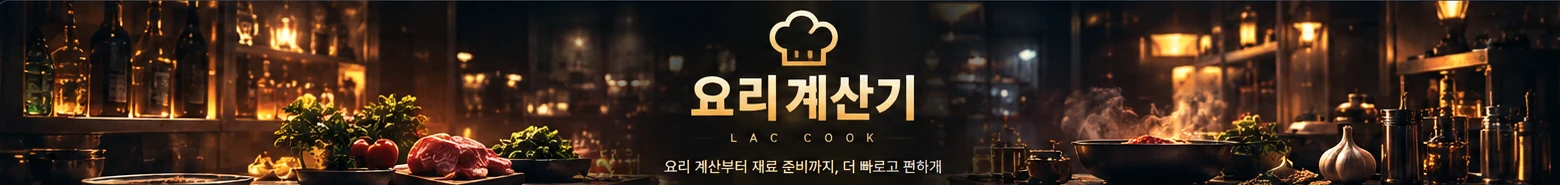
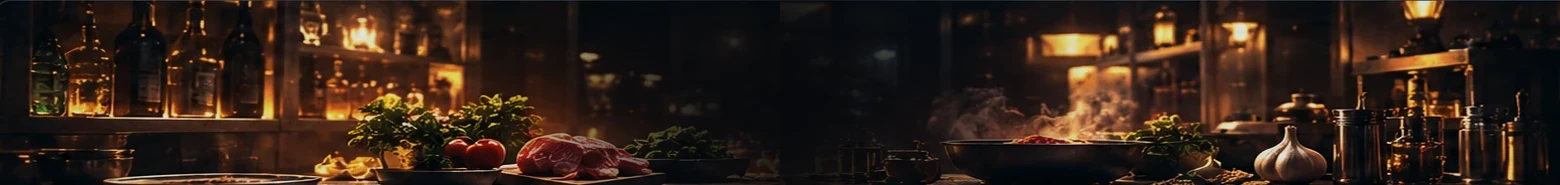
1

diff --git a/hub/src/companyCookEntry.js b/hub/src/companyCookEntry.js
@@ -23,7 +23,7 @@ styles.textContent = `
   /* The background belongs to the stage, not an oversized iframe. */
   .cc-layout {
     min-height:100dvh;display:flex;flex-direction:column;align-items:center;
-    padding:clamp(10px,1.7vh,18px) 16px 28px;
+    padding:0 0 28px;
     background:
       radial-gradient(ellipse 42% 34% at 50% 76%,rgba(195,141,73,.09),transparent 78%),
       radial-gradient(ellipse 36% 45% at 90% 56%,rgba(61,94,112,.10),transparent 80%),
@@ -33,14 +33,51 @@ styles.textContent = `
   }
   /* A full workbench, like the previous cooking app: content fills the stage. */
   .cc-panel {
-    flex:none;width:min(1460px,100%);margin:0 auto;overflow:hidden;
+    flex:none;width:min(1460px,calc(100% - 32px));margin:12px auto 0;overflow:hidden;
     background:#101519;border:1px solid rgba(192,146,79,.28);border-radius:15px;
     box-shadow:0 20px 65px #0009,0 0 0 1px #ffffff04;
   }
   .cc-header {
-    min-height:37px;display:flex;align-items:center;justify-content:flex-end;gap:8px;
-    padding:4px 13px;border-bottom:1px solid #2d353b;background:#12181d;
+    width:100%;min-height:68px;display:grid;grid-template-columns:minmax(160px,1fr) auto minmax(160px,1fr);
+    align-items:center;gap:12px;padding:9px max(18px,calc((100vw - 1460px)/2));
+    background:linear-gradient(180deg,#0f141a,#0b1015);border-bottom:1px solid #27313a;
   }
+  .cc-header-title{display:flex;gap:12px;align-items:center;min-width:0}
+  .cc-header-title b{font-size:19px;color:#f1f3f5;white-space:nowrap}
+  .cc-header-icon{width:35px;height:35px;flex:none;display:grid;place-items:center;background:#dba956;
+    border-radius:9px;color:#181715;font-size:19px;font-weight:900;box-shadow:0 0 22px #b879302a}
+  .cc-nav{display:flex;justify-content:center;align-items:center;gap:5px;border:1px solid #303842;
+    border-radius:999px;padding:4px;background:#14191f;min-width:0}
+  .cc-nav-button{border:0;border-radius:999px;background:transparent;color:#aebbc9;font-size:12px;font-weight:800;
+    padding:9px 15px;cursor:pointer;white-space:nowrap}
+  .cc-nav-button:hover{background:#252e38;color:#fff}
+  .cc-nav-button[aria-current="page"]{background:#e9b452;color:#151617}
+  .cc-nav-button:focus-visible{outline:2px solid #ecc37c;outline-offset:2px}
+  .cc-view{padding:25px;min-height:450px;color:#dce5ed}
+  .cc-view[hidden],.cc-frame[hidden]{display:none!important}
+  .cc-view-head{display:flex;align-items:center;justify-content:space-between;gap:14px;flex-wrap:wrap;margin-bottom:18px}
+  .cc-view h2{font-size:19px;margin:0;color:#fff}
+  .cc-view p{font-size:12px;line-height:1.7;color:#a9b8c6}
+  .cc-view-card{background:#151c23;border:1px solid #34404b;border-radius:13px;padding:19px;margin:0 0 12px}
+  .cc-view-card h3{font-size:15px;margin:0 0 10px;color:#f2eee5}
+  .cc-view-filters{display:flex;gap:9px;flex-wrap:wrap;margin:14px 0}
+  .cc-view-filters input,.cc-view-filters select{padding:9px 11px;border-radius:8px;border:1px solid #465362;
+    background:#0d141b;color:#eef2f5;font:inherit;font-size:12px}
+  .cc-view-filters input{flex:1 1 240px}
+  .cc-data-list{display:grid;grid-template-columns:repeat(2,minmax(0,1fr));gap:9px;max-height:490px;overflow:auto}
+  .cc-data-item{border:1px solid #34404b;border-radius:9px;padding:12px;background:#10161c}
+  .cc-data-item strong{display:block;font-size:12px;color:#f1e5d2}
+  .cc-data-item small{display:block;font-size:10px;color:#92a4b4;margin-top:5px;line-height:1.6}
+  .cc-link{display:inline-flex;align-items:center;text-decoration:none;padding:9px 13px;border-radius:9px;
+    border:1px solid #af8a51;background:#302515;color:#f3d09a;font-size:12px;font-weight:800}
+  .cc-link:hover{background:#48341b}
+  .cc-hero-text{height:100%;display:flex;flex-direction:column;align-items:center;justify-content:center;
+    text-align:center;color:#f6d89a;text-shadow:0 2px 12px #020304,0 2px 4px #020304;padding:8px 15px}
+  .cc-hero-mark{font-size:31px;line-height:1;margin-bottom:1px;font-weight:900}
+  .cc-hero-text strong{font-size:clamp(25px,3.2vw,43px);font-weight:900;letter-spacing:-.045em;line-height:1.18}
+  .cc-hero-text em{font-style:normal;font-size:11px;font-weight:800;letter-spacing:.5em;margin:3px 0 7px}
+  .cc-hero-text small{font-size:12px;font-weight:750;color:#f6e5ca}
+
   /* Decorative brand-neutral kitchen hero inside the unified calculator card. */
   .cc-hero {
     height:clamp(160px,12.2vw,205px);
@@ -55,7 +92,7 @@ styles.textContent = `
     border-radius:7px;background:#2e261a;color:#ffce80;font-size:12px;font-weight:900}
   .cc-brand strong {display:block;font-size:13px;line-height:1.1;letter-spacing:.01em}
   .cc-brand small {display:block;margin-top:2px;color:#8e9eab;font-size:9px}
-  .cc-actions {display:flex;align-items:center;gap:6px;flex-shrink:0}
+  .cc-actions {display:flex;align-items:center;justify-content:flex-end;gap:6px;flex-shrink:0}
   .cc-button {min-height:29px;padding:5px 10px;border-radius:7px;border:1px solid #45515d;
     background:#1d252e;color:#e6edf3;font-size:11px;font-weight:750;cursor:pointer}
   .cc-button:hover {background:#273340}
@@ -75,23 +112,27 @@ styles.textContent = `
   .cc-dialog p,.cc-dialog li {font-size:12px;line-height:1.8;color:#c0ccd7}
   .cc-dialog ol {padding-left:21px}
   .cc-dialog button {float:right;margin-top:10px}
-  /* Keep the browser's native controls clear when a desktop PWA uses overlays. */
-  @media(display-mode:window-controls-overlay) {
-    .cc-layout {padding-top:max(34px,calc(env(titlebar-area-height,0px) + 8px))}
-    .cc-header,.cc-actions,.cc-button{-webkit-app-region:no-drag}
-  }
+  /* Desktop PWA: controls remain within the page, never under OS buttons. */
   /* Keep the hero when possible; narrow/tiny windows favour actual controls. */
   @media(max-height:680px) and (min-width:751px){
     .cc-hero{height:112px}
   }
   @media(max-height:500px){.cc-hero{display:none}}
-  @media(max-width:720px){.cc-hero{display:none}}
+  @media(max-width:720px){.cc-hero{height:114px}.cc-hero-text strong{font-size:25px}.cc-hero-text small{font-size:10px}}
+  @media(max-width:970px){
+    .cc-header{grid-template-columns:1fr auto;gap:7px;padding:10px 14px}
+    .cc-nav{grid-column:1/-1;grid-row:2;justify-self:center}
+    .cc-actions{grid-column:2;grid-row:1}
+  }
   @media(max-width:620px){
-    .cc-layout{padding:9px}
-    .cc-panel{border-radius:11px}
-    .cc-header{padding:6px 9px}
-    .cc-brand small{display:none}
+    .cc-panel{width:calc(100% - 16px);border-radius:11px}
+    .cc-header{padding:9px}
+    .cc-header-title b{font-size:15px}
+    .cc-header-icon{width:28px;height:28px;font-size:14px}
+    .cc-nav-button{padding:8px 10px;font-size:11px}
     .cc-button{padding:5px 8px}
+    .cc-data-list{grid-template-columns:1fr}
+    .cc-view{padding:13px;min-height:330px}
   }
 
 `;
@@ -103,6 +144,13 @@ let statusInFlight = false;
 let pendingInstallEvent = null;
 let frameResizeObserver = null;
 let frameResizeCleanup = null;
+let currentView = 'home';
+let dataLoaded = false;
+let dataLoadInFlight = false;
+let dataCache = [];
+let dataError = '';
+let viewHost = null;
+let navButtons = null;
 
 function resetView(){
   frameResizeObserver?.disconnect();
@@ -110,6 +158,9 @@ function resetView(){
   frameResizeCleanup?.();
   frameResizeCleanup = null;
   frame = null;
+  viewHost = null;
+  navButtons = null;
+  currentView = 'home';
   app.replaceChildren();
 }
 function showStatus(title, detail, retry = false){
@@ -188,27 +239,146 @@ async function handleInstall(){
 function createAppShell(){
   const layout = document.createElement('main');layout.className = 'cc-layout';
   const header = document.createElement('header');header.className = 'cc-header';
-  const actions = document.createElement('div');actions.className = 'cc-actions';
-  const install = document.createElement('button');
-  install.id = 'cc-install'; install.type = 'button';
-  install.className = 'cc-button cc-button--primary';install.textContent = '앱 설치';
-  install.addEventListener('click',() => void handleInstall());
-  const refresh = document.createElement('button');
-  refresh.type = 'button';refresh.className = 'cc-button';refresh.textContent = '새로고침';
-  refresh.addEventListener('click',() => window.location.reload());
-  actions.append(install,refresh);header.append(actions);
-  const panel = document.createElement('section');
-  panel.className = 'cc-panel';
+  const identity = document.createElement('div');identity.className='cc-header-title';
+  const logo=document.createElement('span');logo.className='cc-header-icon';logo.innerHTML='<svg width="23" height="23" viewBox="0 0 24 24" fill="none" stroke="currentColor" stroke-width="2" stroke-linejoin="round"><path d="M6 13a4 4 0 0 1-1-7.87 5 5 0 0 1 9.5-1.1A4 4 0 0 1 19 11v9H5v-7"/><path d="M8 20v-4m8 4v-4"/></svg>';logo.setAttribute('aria-hidden','true');
+  const title=document.createElement('b');title.textContent='요리계산기';identity.append(logo,title);
+  const nav=document.createElement('nav');nav.className='cc-nav';nav.setAttribute('aria-label','요리계산기 메뉴');
+  navButtons=new Map();
+  const addNav=(key,text,handler)=>{
+    const button=document.createElement('button');button.type='button';button.className='cc-nav-button';
+    button.textContent=text;button.addEventListener('click',handler);nav.append(button);navButtons.set(key,button);
+  };
+  addNav('home','⌂  홈',()=>switchAppView('home'));
+  addNav('data','▦  데이터',()=>switchAppView('data'));
+  addNav('edit','✎  레시피 수정 ↗',()=>{
+    // Deliberately use the existing authenticated HUB route for editing.
+    // The public PWA never receives write capabilities, credentials, or role bypasses.
+    window.open('/cook','_blank','noopener,noreferrer');
+  });
+  addNav('settings','⚙  설정',()=>switchAppView('settings'));
+  const actions=document.createElement('div');actions.className='cc-actions';
+  const install=document.createElement('button');install.id='cc-install';install.type='button';
+  install.className='cc-button cc-button--primary';install.textContent='앱 설치';
+  install.addEventListener('click',()=>void handleInstall());
+  const refresh=document.createElement('button');refresh.type='button';refresh.className='cc-button';
+  refresh.textContent='새로고침';refresh.addEventListener('click',()=>window.location.reload());
+  actions.append(install,refresh);header.append(identity,nav,actions);
+  const panel=document.createElement('section');panel.className='cc-panel';
   panel.setAttribute('aria-label','요리계산기');
-  // Image is decorative and never changes recipes, permissions or stored work.
-  const hero = document.createElement('div');
-  hero.className = 'cc-hero';
-  hero.setAttribute('aria-hidden','true');
-  panel.append(header,hero);
-  layout.append(panel);app.replaceChildren(layout);
-  updateInstallButton();
-  return panel;
+  const hero=document.createElement('div');hero.className='cc-hero';
+  hero.setAttribute('aria-label','요리계산기 · LAC COOK');
+  const text=document.createElement('div');text.className='cc-hero-text';
+  const mark=document.createElement('span');mark.className='cc-hero-mark';mark.innerHTML='<svg width="40" height="40" viewBox="0 0 24 24" fill="none" stroke="currentColor" stroke-width="1.8" stroke-linejoin="round"><path d="M6 13a4 4 0 0 1-1-7.87 5 5 0 0 1 9.5-1.1A4 4 0 0 1 19 11v9H5v-7"/><path d="M8 20v-4m8 4v-4"/></svg>';mark.setAttribute('aria-hidden','true');
+  const main=document.createElement('strong');main.textContent='요리계산기';
+  const sub=document.createElement('em');sub.textContent='LAC COOK';
+  const detail=document.createElement('small');detail.textContent='요리 계산부터 재료 준비까지, 더 빠르고 편하게';
+  text.append(mark,main,sub,detail);hero.append(text);
+  viewHost=document.createElement('section');viewHost.className='cc-view';viewHost.hidden=true;
+  viewHost.setAttribute('aria-live','polite');
+  panel.append(hero,viewHost);layout.append(header,panel);app.replaceChildren(layout);
+  switchAppView('home');updateInstallButton();return panel;
 }
+function switchAppView(view){
+  if(!['home','data','settings'].includes(view) || !viewHost)return;
+  currentView=view;
+  for(const [name,button] of navButtons||[]){
+    if(name===view)button.setAttribute('aria-current','page');
+    else button.removeAttribute('aria-current');
+  }
+  const hero=app.querySelector('.cc-hero');
+  if(hero) hero.hidden=view!=='home';
+  viewHost.hidden=view==='home';
+  if(frame){frame.hidden=view!=='home';
+    if(view==='home')requestAnimationFrame(()=>frame?.contentWindow?.dispatchEvent(new Event('resize')));
+  }
+  if(view==='home')return;
+  if(view==='settings')paintAppSettings();
+  if(view==='data'){
+    paintAppData();
+    if(!dataLoaded && !dataLoadInFlight)void loadAppData();
+  }
+}
+function makeText(tag,className,text){
+  const item=document.createElement(tag);if(className)item.className=className;
+  if(text!=null)item.textContent=text;return item;
+}
+function paintAppSettings(){
+  if(!viewHost)return;
+  viewHost.replaceChildren();
+  const heading=makeText('h2','','앱 설정');
+  const intro=makeText('p','','설치·데이터 보관·운영 안내를 확인할 수 있습니다. 요리계산기의 공통 레시피는 이 화면에서 수정할 수 없습니다.');
+  const install=makeText('div','cc-view-card',null);
+  install.append(makeText('h3','','설치형 요리계산기'),makeText('p','',installedMode()?'현재 설치형 앱으로 실행 중입니다.':'브라우저의 설치 기능을 이용하면 바탕화면 아이콘으로 실행할 수 있습니다.'));
+  const installButton=makeText('button','cc-button cc-button--primary','앱 설치 / 설치 안내');
+  installButton.type='button';installButton.addEventListener('click',()=>void handleInstall());
+  install.append(installButton);
+  const storage=makeText('div','cc-view-card',null);
+  storage.append(makeText('h3','','작업 정보 보관'),makeText('p','','작업 목록·즐겨찾기·작업 메모는 현재 브라우저에 저장됩니다. 브라우저 사이트 데이터를 삭제하면 사라질 수 있습니다.'));
+  const management=makeText('div','cc-view-card',null);
+  management.append(makeText('h3','','레시피 수정 및 운영 관리'),makeText('p','','공통 레시피 수정은 기존 LAC HUB 로그인과 편집 권한이 필요합니다. 요리계산기 앱은 공개 읽기 전용입니다.'));
+  const link=makeText('a','cc-link','보호된 HUB COOK 열기 ↗');link.href='/cook';link.target='_blank';link.rel='noopener noreferrer';management.append(link);
+  viewHost.append(heading,intro,install,storage,management);
+}
+async function loadAppData(){
+  dataLoadInFlight=true;dataError='';
+  try {
+    const {default:catalog}=await import('/cook-preview/data/catalog.js');
+    // This tab is informational; public database reads never enable mutations.
+    const [recipes,processes]=await Promise.all([
+      supabase.from('lac_cook_recipe_entries').select('food_id,food_name,set_qty,cook_time,source_kind,version'),
+      supabase.from('lac_cook_process_entries').select('process_material_name,result_qty,process_time,source_kind,version'),
+    ]);
+    if(recipes.error || processes.error)throw new Error('공통 DB 조회 실패');
+    const foodMap=new Map((catalog.foods||[]).filter(x=>x.is_active==='TRUE').map(x=>[x.food_id,{name:x.food_name,time:x.cook_time,qty:x.set_qty,kind:'food'}]));
+    for(const item of recipes.data||[]){
+      if(item.source_kind==='new')foodMap.set(item.food_id,{name:item.food_name,time:item.cook_time,qty:item.set_qty,kind:'food'});
+      else if(foodMap.has(item.food_id))foodMap.set(item.food_id,{...foodMap.get(item.food_id),name:item.food_name||foodMap.get(item.food_id).name,time:item.cook_time??foodMap.get(item.food_id).time,qty:item.set_qty??foodMap.get(item.food_id).qty});
+    }
+    const processMap=new Map((catalog.processes||[]).filter(x=>x.is_active==='TRUE').map(x=>[x.result_material_name||x.material_name||x.process_material_name,{name:x.result_material_name||x.material_name||x.process_material_name,qty:x.result_qty,time:x.process_time,kind:'process'}]));
+    for(const item of processes.data||[]){
+      processMap.set(item.process_material_name,{name:item.process_material_name,time:item.process_time,qty:item.result_qty,kind:'process'});
+    }
+    dataCache=[...foodMap.values(),...processMap.values()].filter(x=>x.name).sort((a,b)=>xname(a).localeCompare(xname(b),'ko'));
+    dataLoaded=true;
+  }catch{
+    dataError='데이터를 불러오지 못했습니다. 연결 상태를 확인하고 다시 시도해 주세요.';
+  }finally{
+    dataLoadInFlight=false;if(currentView==='data')paintAppData();
+  }
+}
+function xname(item){return String(item.name||'');}
+function paintAppData(){
+  if(!viewHost)return;
+  viewHost.replaceChildren();
+  const head=makeText('div','cc-view-head',null);
+  head.append(makeText('h2','','레시피 데이터'),makeText('span','',dataLoaded?'읽기 전용 · 공통 데이터 연동':'조회 중'));
+  const intro=makeText('p','','요리와 가공 데이터의 이름·제작시간·생산량을 확인할 수 있습니다. 등록·수정은 기존 HUB COOK에서 관리자 권한으로 진행하세요.');
+  const box=makeText('div','cc-view-card',null);
+  if(dataError){box.append(makeText('p','',dataError));const retry=makeText('button','cc-button','다시 확인');retry.addEventListener('click',()=>void loadAppData());box.append(retry);viewHost.append(head,intro,box);return;}
+  if(!dataLoaded){box.append(makeText('p','','데이터를 불러오는 중입니다…'));viewHost.append(head,intro,box);return;}
+  const controls=makeText('div','cc-view-filters',null);
+  const query=makeText('input');query.type='search';query.placeholder='레시피 이름 검색';query.setAttribute('aria-label','레시피 데이터 검색');
+  const kind=makeText('select');kind.setAttribute('aria-label','데이터 종류');
+  for(const [value,label] of [['all','전체'],['food','요리'],['process','가공']]){const option=makeText('option','',label);option.value=value;kind.append(option);}
+  controls.append(query,kind);
+  const count=makeText('p','','');const list=makeText('div','cc-data-list',null);
+  const filter=()=>{
+    const needle=query.value.trim().toLocaleLowerCase('ko');
+    const entries=dataCache.filter(x=>(kind.value==='all'||x.kind===kind.value)&&xname(x).toLocaleLowerCase('ko').includes(needle)).slice(0,160);
+    list.replaceChildren();
+    for(const item of entries){
+      const card=makeText('div','cc-data-item',null);
+      const note=item.kind==='food'?'요리 · ':'가공 · ';
+      card.append(makeText('strong','',item.name),makeText('small','',note+'시간 '+(item.time||'미확인')+' · 생산량 '+(item.qty||'미확인')));
+      list.append(card);
+    }
+    count.textContent=`${entries.length}건 표시 · 전체 ${dataCache.length}건`;
+    if(!entries.length)list.append(makeText('p','','검색 결과가 없습니다.'));
+  };
+  query.addEventListener('input',filter);kind.addEventListener('change',filter);
+  box.append(controls,count,list);viewHost.append(head,intro,box);filter();
+}
+
 function sizeCompanyFrame(iframe, doc){
   if(frame!==iframe || !iframe.isConnected)return;
   const content = doc.querySelector('.frame');
